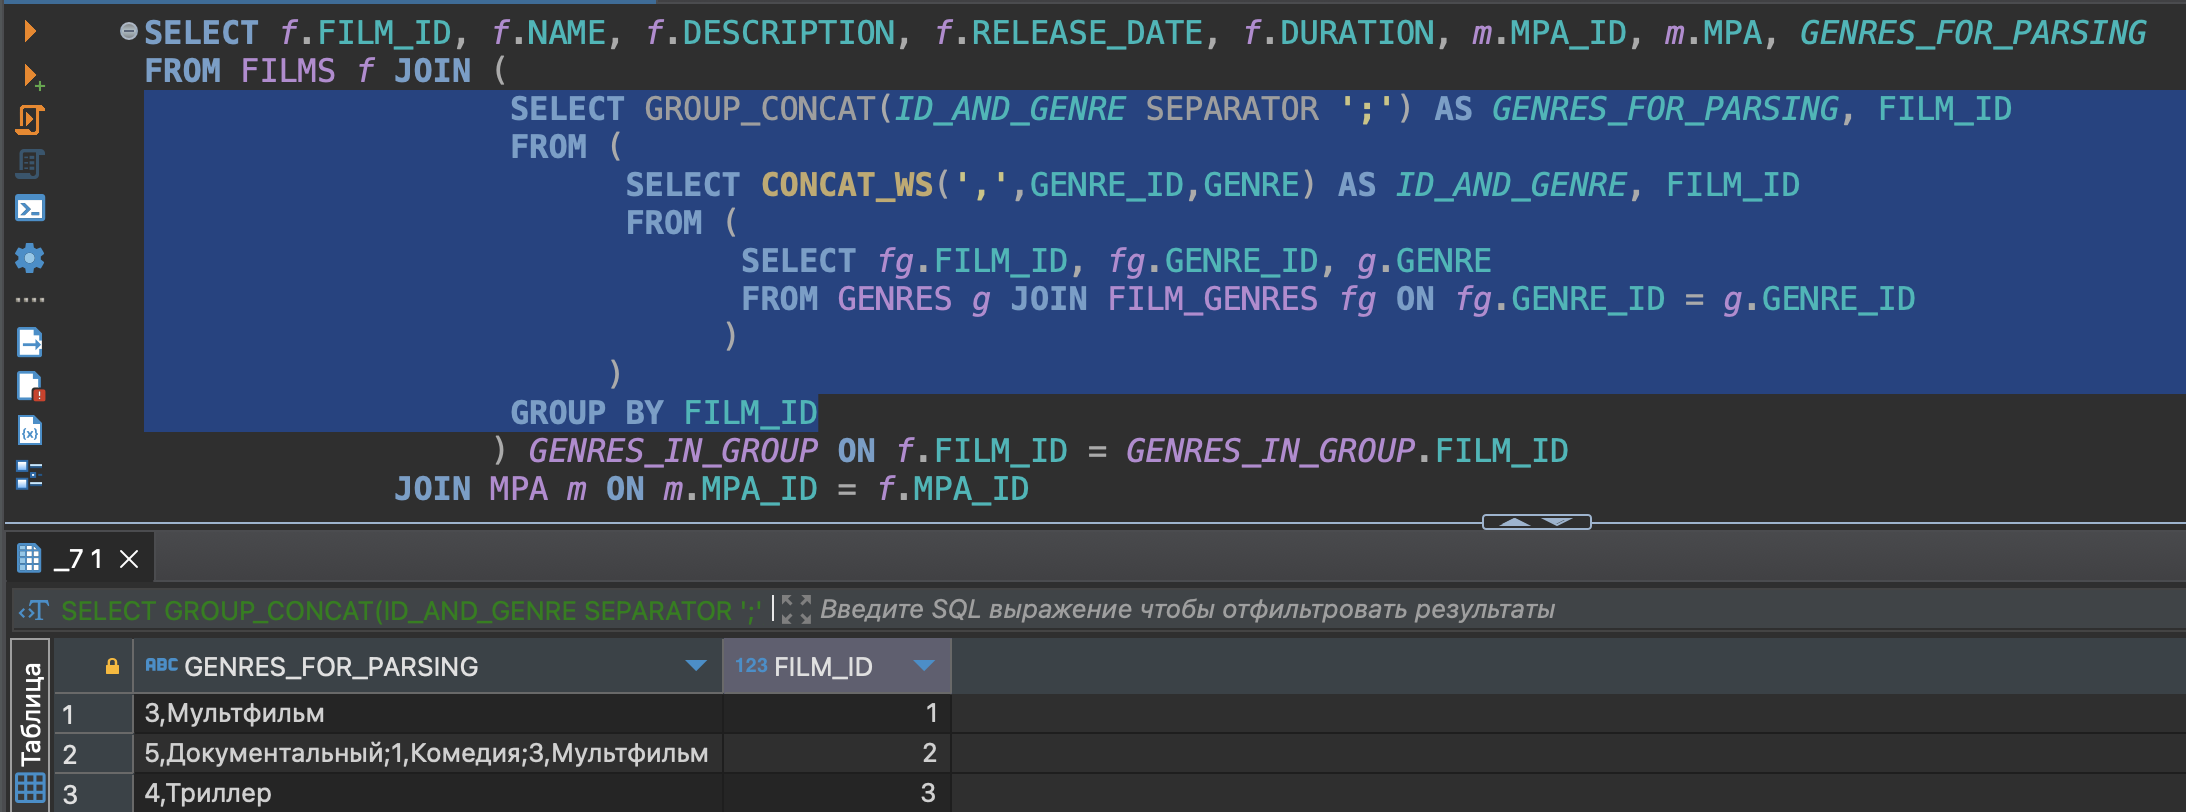
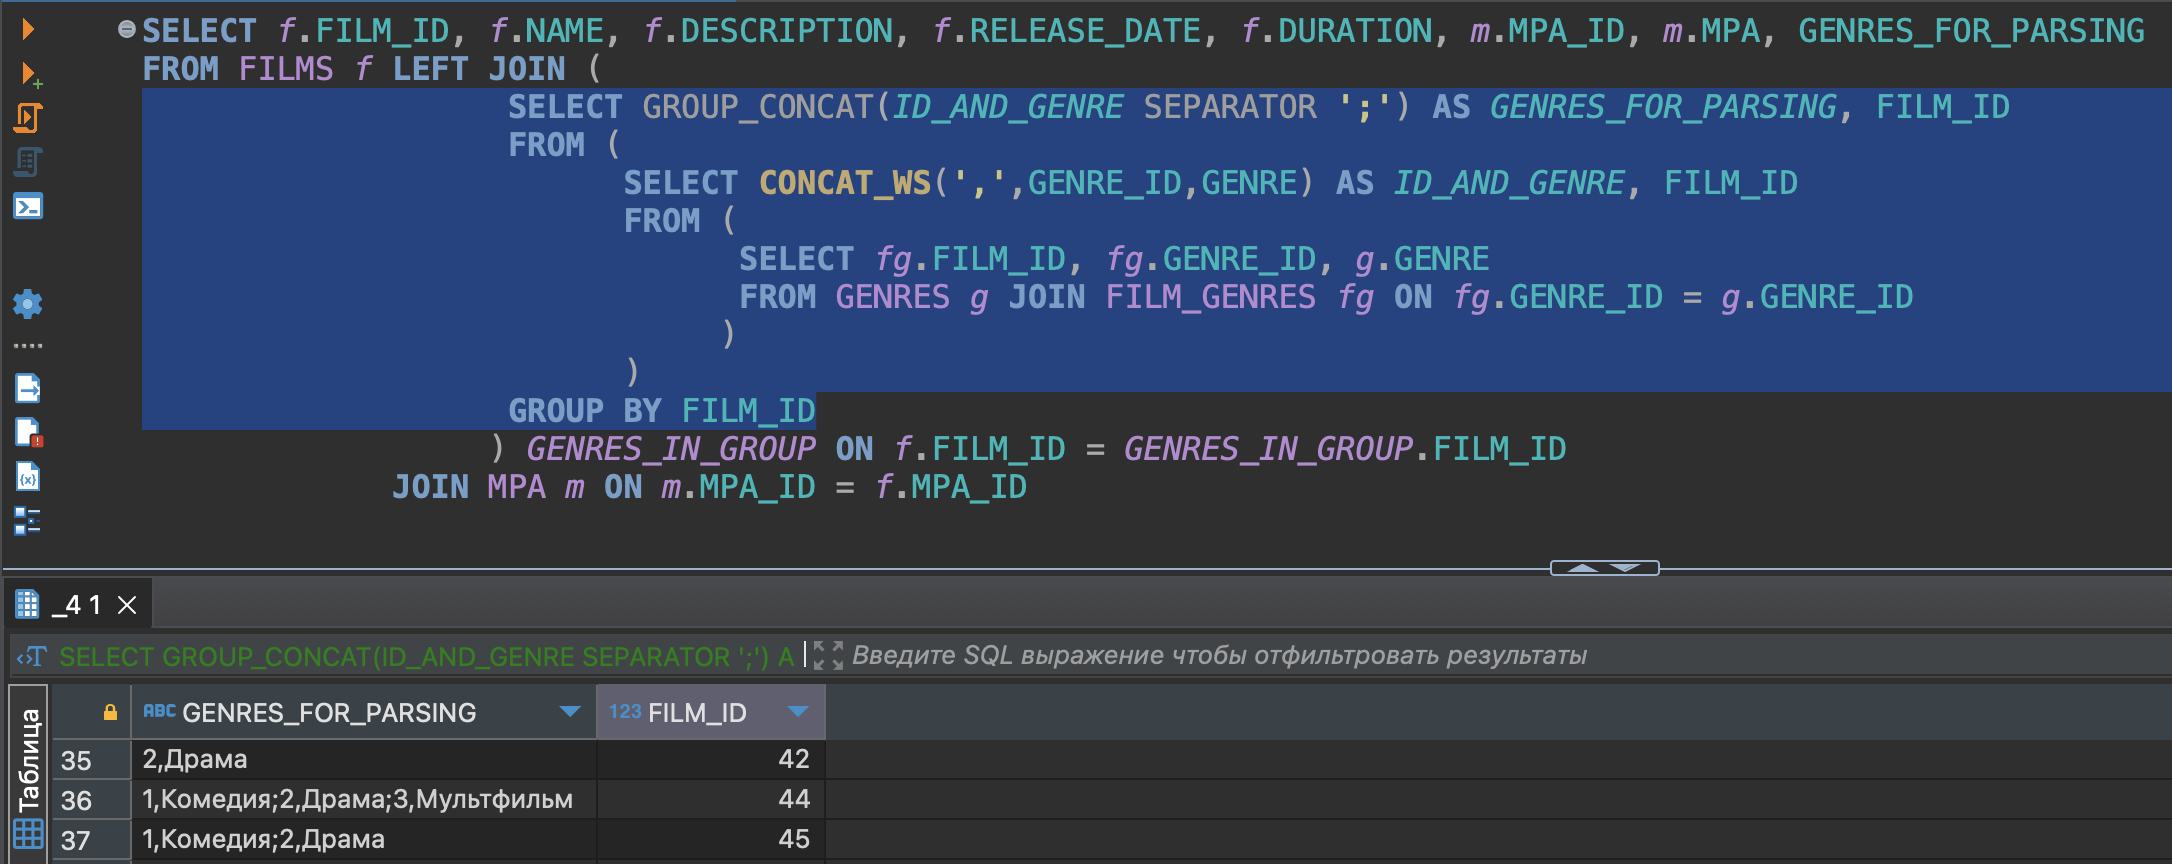
ТЗ11: исправлено с учётом тестов от 25.03.2024

diff --git a/src/main/java/ru/yandex/practicum/filmorate/storage/user/UserDbStorage.java b/src/main/java/ru/yandex/practicum/filmorate/storage/user/UserDbStorage.java
@@ -113,6 +113,7 @@ public class UserDbStorage implements UserStorage {
 
     @Override
     public Map<String, String> removeFromFriends(int id, int friendId) {
+        friendsVerification(id, friendId);
         String sqlQuery = "DELETE FROM FRIENDS WHERE USER_ID = ? AND FRIEND_ID = ?";
         int linesDelete = jdbcTemplate.update(sqlQuery, id, friendId);
         if (linesDelete > 0) {
@@ -120,8 +121,29 @@ public class UserDbStorage implements UserStorage {
             return Map.of("result", "Пользователь с id " + id + " удалился из друзей у пользователя с id "
                     + friendId);
         } else {
-            throw new NoSuchElementException("Данные о дружбе между пользователем с id " + id + " и пользователем "
-                    + "с id " + friendId + " не найдены. Удаление из друзей отклонено.");
+            log.info("Сведения о дружбе между пользователями с id {} и id {} отсутствуют. Удалять нечего.",
+                    id, friendId);
+            return Map.of("result", "Пользователь с id " + id + " не был в друзьях у пользователя с id "
+                    + friendId + ". Удалять нечего.");
+        }
+    }
+
+    private void friendsVerification(int id, int friendId) {
+        List<Integer> usersIdForVerification = new ArrayList<>();
+        usersIdForVerification.add(id);
+        usersIdForVerification.add(friendId);
+        List<User> usersForVerification = someUsers(usersIdForVerification);
+        Set<Integer> pairForVerification = new HashSet<>();
+        for (User user : usersForVerification) {
+            pairForVerification.add(user.getId());
+        }
+        if (pairForVerification.isEmpty()) {
+            throw new NoSuchElementException("Переданы некорректные идентификаторы пользователей: " +
+                    id + " и " + friendId);
+        } else if (!pairForVerification.contains(id)) {
+            throw new NoSuchElementException("Передан некорректный id пользователя: " + id);
+        } else if (!pairForVerification.contains(friendId)) {
+            throw new NoSuchElementException("Передан некорректный friendId пользователя: " + friendId);
         }
     }
 
@@ -156,13 +178,27 @@ public class UserDbStorage implements UserStorage {
     }
 
     private Set<Integer> getFriendsId(int id) {
-        SqlRowSet friendsIdRows = jdbcTemplate.queryForRowSet("SELECT FRIEND_ID FROM FRIENDS WHERE " +
-                "USER_ID = ?", id);
+        SqlRowSet friendsIdRows = jdbcTemplate.queryForRowSet("SELECT u.USER_ID, f.FRIEND_ID FROM USERS u " +
+                "LEFT JOIN FRIENDS f ON u.USER_ID = f.USER_ID WHERE u.USER_ID = ?", id);
         Set<Integer> friendsId = new HashSet<>();
+        int lineCounter = 0;
         while (friendsIdRows.next()) {
-            int friendId = Integer.parseInt(Objects.requireNonNull(friendsIdRows.getString("FRIEND_ID")));
-            friendsId.add(friendId);
+            String userId = friendsIdRows.getString("USER_ID");
+            if (userId != null) {
+                lineCounter++;
+                String friendIdValue = friendsIdRows.getString("FRIEND_ID");
+                if (friendIdValue != null) {
+                    int friendId = Integer.parseInt(friendIdValue);
+                    friendsId.add(friendId);
+                }
+            }
         }
-        return friendsId;
+        if (lineCounter == 0) {
+            log.info("Пользователь с идентификатором {} не найден. Получить список его друзей не удалось.", id);
+            throw new NoSuchElementException("Пользователь с id " + id + " в базе отсутствует. " +
+                    "Получить список его друзей не удалось.");
+        } else  {
+            return friendsId;
+        }
     }
 }

diff --git a/src/main/java/ru/yandex/practicum/filmorate/storage/film/FilmDbStorage.java b/src/main/java/ru/yandex/practicum/filmorate/storage/film/FilmDbStorage.java
@@ -45,7 +45,7 @@ public class FilmDbStorage implements FilmStorage {
     */
     private String commonPartOfQuery() {
         return "SELECT f.FILM_ID, f.NAME, f.DESCRIPTION, f.RELEASE_DATE, f.DURATION, m.MPA_ID, m.MPA, " +
-                "GENRES_FOR_PARSING FROM FILMS f JOIN (SELECT GROUP_CONCAT(ID_AND_GENRE SEPARATOR ';') AS " +
+                "GENRES_FOR_PARSING FROM FILMS f LEFT JOIN (SELECT GROUP_CONCAT(ID_AND_GENRE SEPARATOR ';') AS " +
                 "GENRES_FOR_PARSING, FILM_ID FROM (SELECT CONCAT_WS(',',GENRE_ID,GENRE) AS ID_AND_GENRE, FILM_ID " +
                 "FROM (SELECT fg.FILM_ID, fg.GENRE_ID, g.GENRE FROM GENRES g JOIN FILM_GENRES fg ON fg.GENRE_ID = " +
                 "g.GENRE_ID)) GROUP BY FILM_ID) GENRES_IN_GROUP ON f.FILM_ID = GENRES_IN_GROUP.FILM_ID JOIN MPA m " +
@@ -68,8 +68,8 @@ public class FilmDbStorage implements FilmStorage {
             String mpaName = filmsRows.getString("MPA");
             Mpa mpa = new Mpa(mpaId, mpaName);
             String rowOfGenres = filmsRows.getString("GENRES_FOR_PARSING");
-            assert rowOfGenres != null;
-            List<Genre> genres = genresParsing(rowOfGenres);
+            List<Genre> genres = new ArrayList<>();
+            if (rowOfGenres != null) genres = genresParsing(rowOfGenres);
             Film film = new Film(
                     Integer.parseInt(Objects.requireNonNull(filmsRows.getString("FILM_ID"))),
                     filmsRows.getString("NAME"),

diff --git a/src/main/java/ru/yandex/practicum/filmorate/controller/ErrorHandler.java b/src/main/java/ru/yandex/practicum/filmorate/controller/ErrorHandler.java
@@ -1,6 +1,7 @@
 package ru.yandex.practicum.filmorate.controller;
 
 import lombok.extern.slf4j.Slf4j;
+import org.springframework.dao.DataIntegrityViolationException;
 import org.springframework.http.HttpStatus;
 import org.springframework.web.bind.MethodArgumentNotValidException;
 import org.springframework.web.bind.annotation.ExceptionHandler;
@@ -36,9 +37,16 @@ public class ErrorHandler {
     }
 
     @ExceptionHandler
+    @ResponseStatus(HttpStatus.NOT_FOUND)
+    public ErrorResponse handleDataIntegrityViolationException(final DataIntegrityViolationException e) {
+        log.info(e.getMessage());
+        return new ErrorResponse(e.getMessage());
+    }
+
+    @ExceptionHandler
     @ResponseStatus(HttpStatus.INTERNAL_SERVER_ERROR)
     public ErrorResponse handleThrowable(final Throwable e) {
         log.info(e.getMessage());
-        return new ErrorResponse("Произошла ошибка.");
+        return new ErrorResponse(e.toString());
     }
 }

diff --git a/src/main/java/ru/yandex/practicum/filmorate/model/Film.java b/src/main/java/ru/yandex/practicum/filmorate/model/Film.java
@@ -38,11 +38,11 @@ public class Film {
     }
 
     public List<Integer> genresToInt() {
-        List<Integer> genresInInt = new ArrayList<>();
+        Set<Integer> genresWithoutDuplicates = new HashSet<>();
         for (Genre genre : genres) {
-            genresInInt.add(genre.getId());
+            genresWithoutDuplicates.add(genre.getId());
         }
-        return genresInInt;
+        return new ArrayList<>(genresWithoutDuplicates);
     }
 
     public Map<String, Object> filmToMap() {
